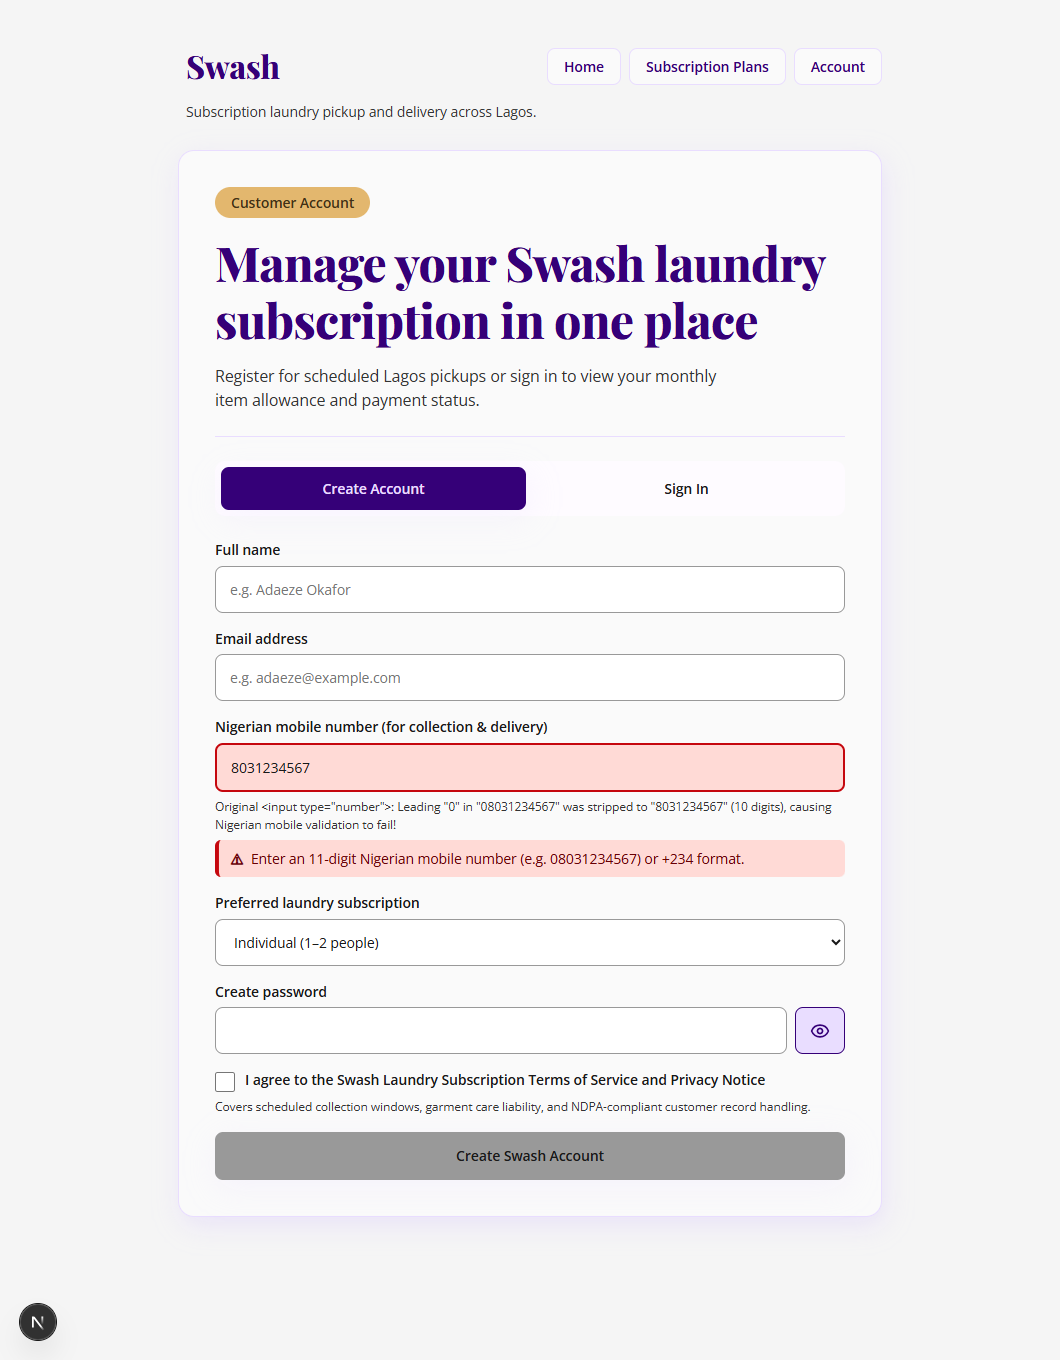
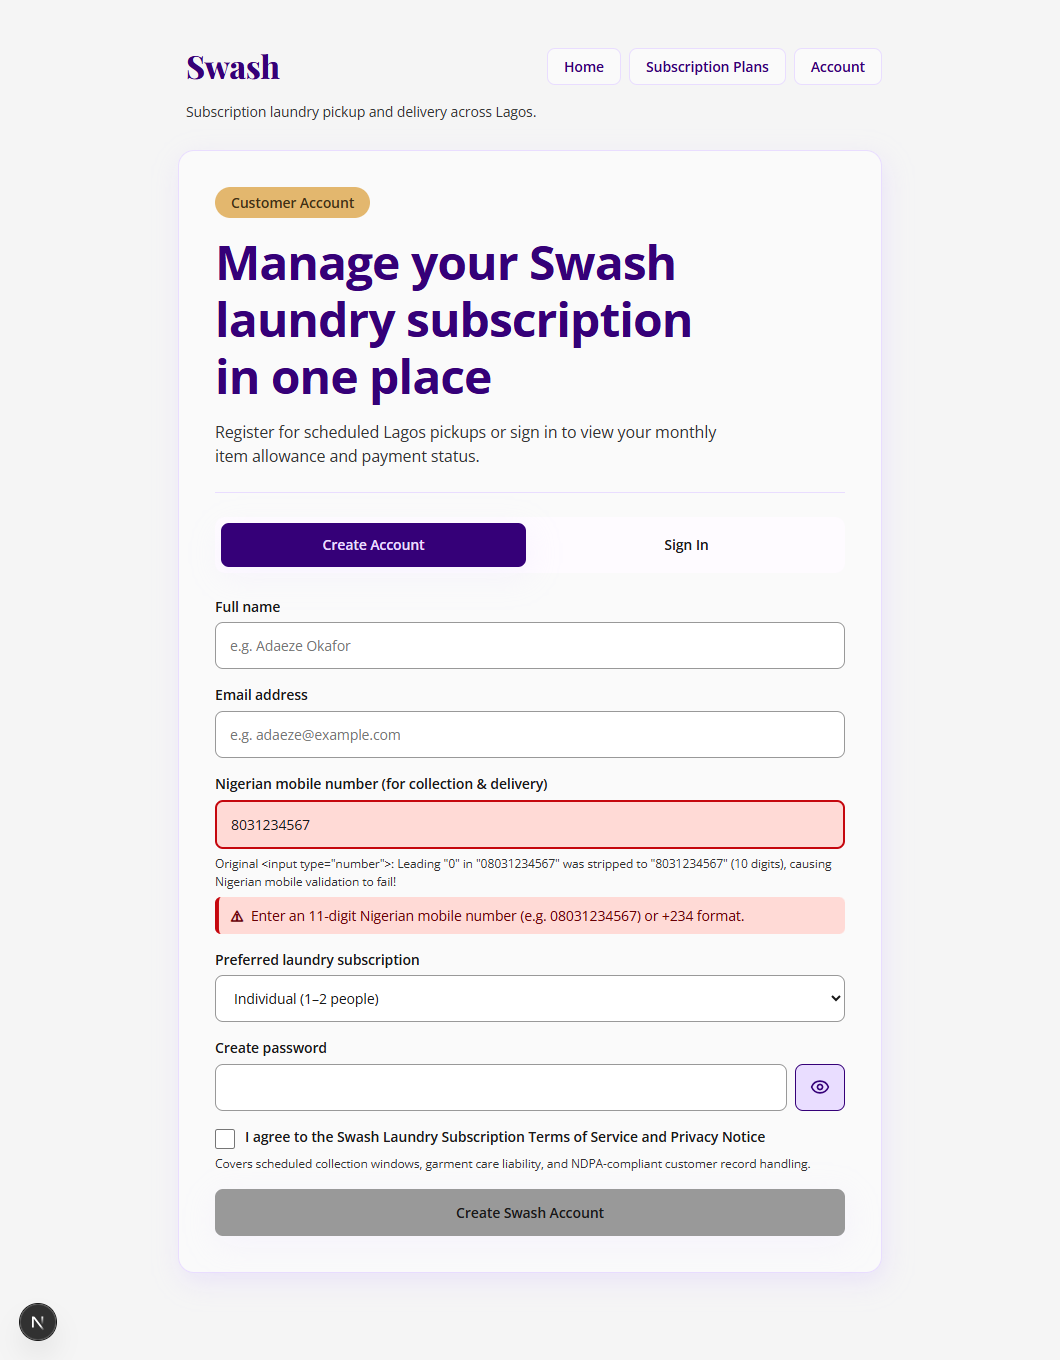
style(typography): restrict Playfair to <=5 words, apply Open Sans to default headings, and update Task 03 PNGs

Changed region(s): [[0.1868, 0.1853, 0.8094, 0.9265]]

diff --git a/src/app/page.module.css b/src/app/page.module.css
@@ -150,32 +150,32 @@
 
 .heroHeading {
   color: var(--colour-on-inverse-primary-role);
-  font-family: var(--typography-playfair-display-medium-font-family), "Playfair Display", Georgia, serif;
+  font-family: var(--typography-open-sans-display-medium-font-family), system-ui, -apple-system, sans-serif;
   font-size: clamp(
-    var(--typography-playfair-headline-small-font-size),
+    var(--typography-open-sans-headline-small-font-size),
     3.5vw + 0.875rem,
-    var(--typography-playfair-display-medium-font-size)
+    var(--typography-open-sans-display-medium-font-size)
   );
-  font-weight: var(--typography-playfair-display-medium-font-weight);
-  font-style: var(--typography-playfair-display-medium-font-style);
-  font-stretch: var(--typography-playfair-display-medium-font-stretch);
+  font-weight: var(--typography-open-sans-display-medium-font-weight);
+  font-style: var(--typography-open-sans-display-medium-font-style);
+  font-stretch: var(--typography-open-sans-display-medium-font-stretch);
   line-height: 1.18;
-  letter-spacing: var(--typography-playfair-display-medium-letter-spacing);
+  letter-spacing: var(--typography-open-sans-display-medium-letter-spacing);
   max-width: 22ch;
   text-wrap: balance;
 }
 
 .sectionHeading {
   color: var(--colour-on-inverse-primary-role);
-  font-family: var(--typography-playfair-headline-small-font-family), "Playfair Display", Georgia, serif;
-  font-size: var(--typography-playfair-headline-small-font-size);
-  font-weight: var(--typography-playfair-headline-small-font-weight);
-  font-style: var(--typography-playfair-headline-small-font-style);
-  font-stretch: var(--typography-playfair-headline-small-font-stretch);
-  line-height: var(--typography-playfair-headline-small-line-height);
-  letter-spacing: var(--typography-playfair-headline-small-letter-spacing);
-  text-decoration: var(--typography-playfair-headline-small-text-decoration);
-  text-transform: var(--typography-playfair-headline-small-text-case);
+  font-family: var(--typography-open-sans-headline-medium-font-family), system-ui, -apple-system, sans-serif;
+  font-size: var(--typography-open-sans-headline-medium-font-size);
+  font-weight: var(--typography-open-sans-headline-medium-font-weight);
+  font-style: var(--typography-open-sans-headline-medium-font-style);
+  font-stretch: var(--typography-open-sans-headline-medium-font-stretch);
+  line-height: var(--typography-open-sans-headline-medium-line-height);
+  letter-spacing: var(--typography-open-sans-headline-medium-letter-spacing);
+  text-decoration: var(--typography-open-sans-headline-medium-text-decoration);
+  text-transform: var(--typography-open-sans-headline-medium-text-case);
 }
 
 .description {

diff --git a/.agent/rules/RULES.md b/.agent/rules/RULES.md
@@ -72,6 +72,11 @@ These rules apply to all implementation work.
 
 Follow the specialised rules when working in their respective domains.
 
+### Typography
+
+- Use Open Sans for body text and default headings.
+- Reserve Playfair Display for occasional expression only; never use Playfair as the default heading font or when a sentence or heading has more than 5 words.
+
 ### Password Security
 
 - Use Argon2id for password hashing.
